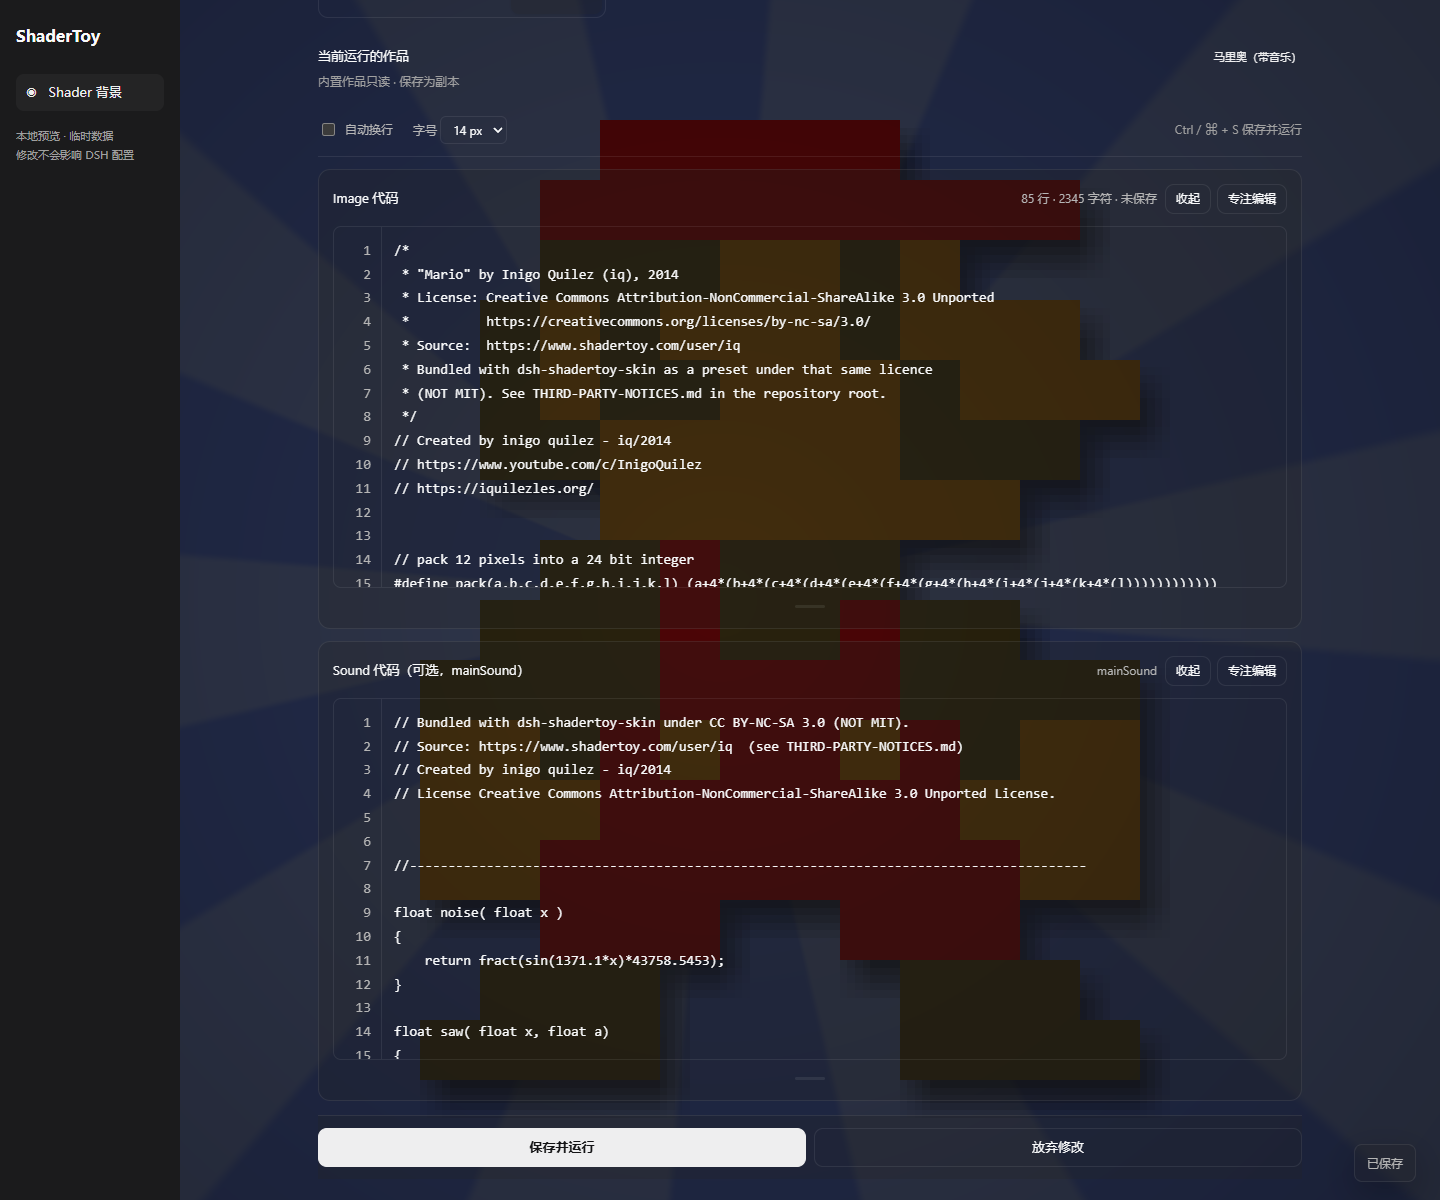
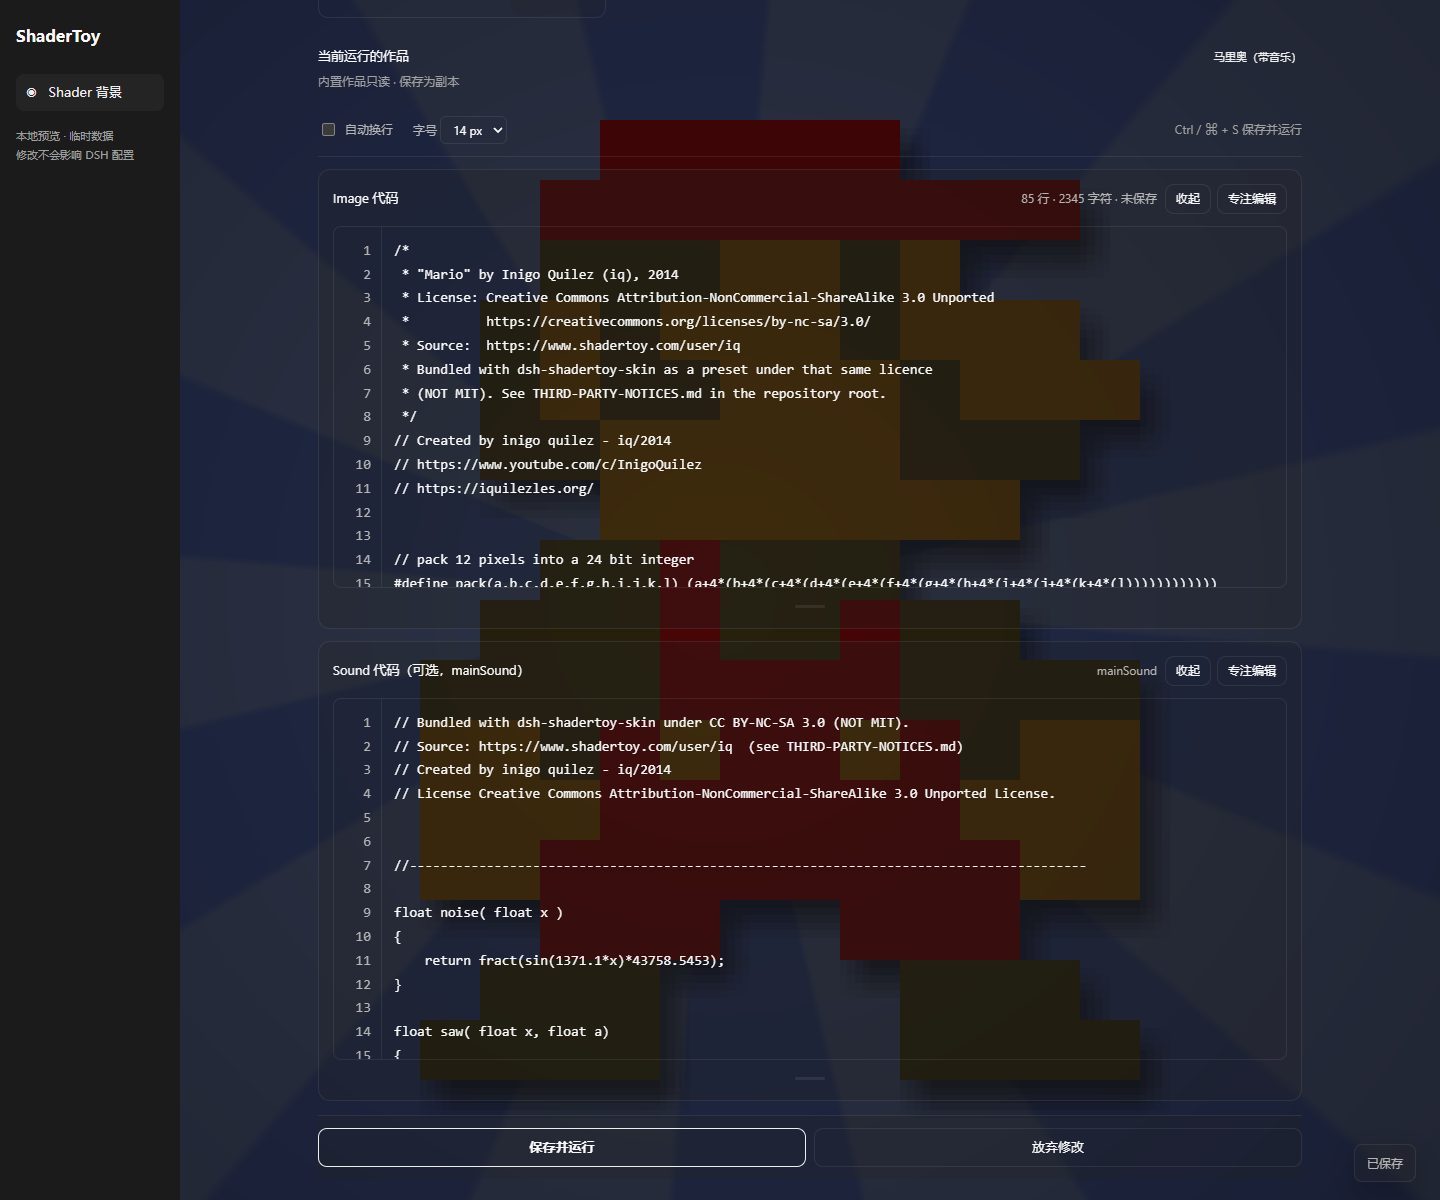
fix: prevent transparent dropdown text overlap

Changed region(s): [[0.2188, 0.925, 0.5625, 0.9867]]

diff --git a/native-dist/panel.html b/native-dist/panel.html
@@ -242,6 +242,12 @@
   }
   .dd.open .dd-menu { display: block; }
   .dd.menu-above .dd-menu { top: auto; bottom: calc(100% + 4px); }
+  /* Transparent choices cannot cover the text underneath. In glass modes
+     expand in flow; the card supplies the single surface behind the options. */
+  html[data-panels="half"] .dd-menu, html[data-panels="clear"] .dd-menu,
+  html[data-panels="half"] .dd.menu-above .dd-menu, html[data-panels="clear"] .dd.menu-above .dd-menu {
+    position: relative; inset: auto; margin-top: 6px; background: transparent; box-shadow: none;
+  }
   .dd-item {
     display: block; width: 100%; padding: 6px 8px; border: 0; border-radius: 7px;
     background: transparent; color: var(--fg); cursor: pointer; text-align: left;
@@ -327,6 +333,9 @@
   .dim { opacity: .6; }
   .btn { min-height: 38px; padding: 8px 14px; font-size: 13px; }
   .btn.primary { background: var(--accent); color: var(--canvas); border-color: var(--accent); font-weight: 600; }
+  html[data-panels="half"] .btn.primary, html[data-panels="clear"] .btn.primary {
+    background: transparent; color: var(--fg);
+  }
   .btn.primary:hover { filter: brightness(.94); }
   .btn:disabled { opacity: .5; cursor: default; }
   .settings-footer { margin-top: 20px; display: flex; gap: 16px; align-items: center; justify-content: space-between; flex-wrap: wrap; }

diff --git a/docs/full-audit-2026-10-27.md b/docs/full-audit-2026-10-27.md
@@ -68,6 +68,8 @@
 
 最新分支 `codex/unified-transparency` 覆盖此前的保底底色策略。依据本机 DSH 组件源码补齐新会话按钮的 elevated/floating 背景变量，修复组件局部 `--changes-fill`、`--deliverable-fill`、`--plan-card-fill` 对主题值的遮蔽，以及 Markdown 外框、顶部栏、高亮正文重复填充。透明档没有隐藏的最低不透明度；半透明档与界面不透明度滑块直接对应。
 
+设置页的透明下拉菜单改为在布局内展开，避免透出后方控件文字；透明/半透明档的保存按钮改为描边样式，不再出现独立的纯白大块。已正常重启本机 DSH，实机确认透明档下的新会话按钮、设置卡片、聊天输入框、代码块顶部栏与正文均能透出背景。保留用户最新的作品、参数与开关状态，未用旧备份覆盖用户操作。
+
 新增 `npm run test:transparency`：18 组深浅主题、三档、三个滑块值的源码结构夹具检查，覆盖按钮、代码块、输入框、行内代码、变更卡片、交付物、计划卡片、菜单；检查关闭背景后恢复原生样式。截图见 [unified-transparency](verify/unified-transparency/)。
 
 ## 代码编辑高度与设置页修复
